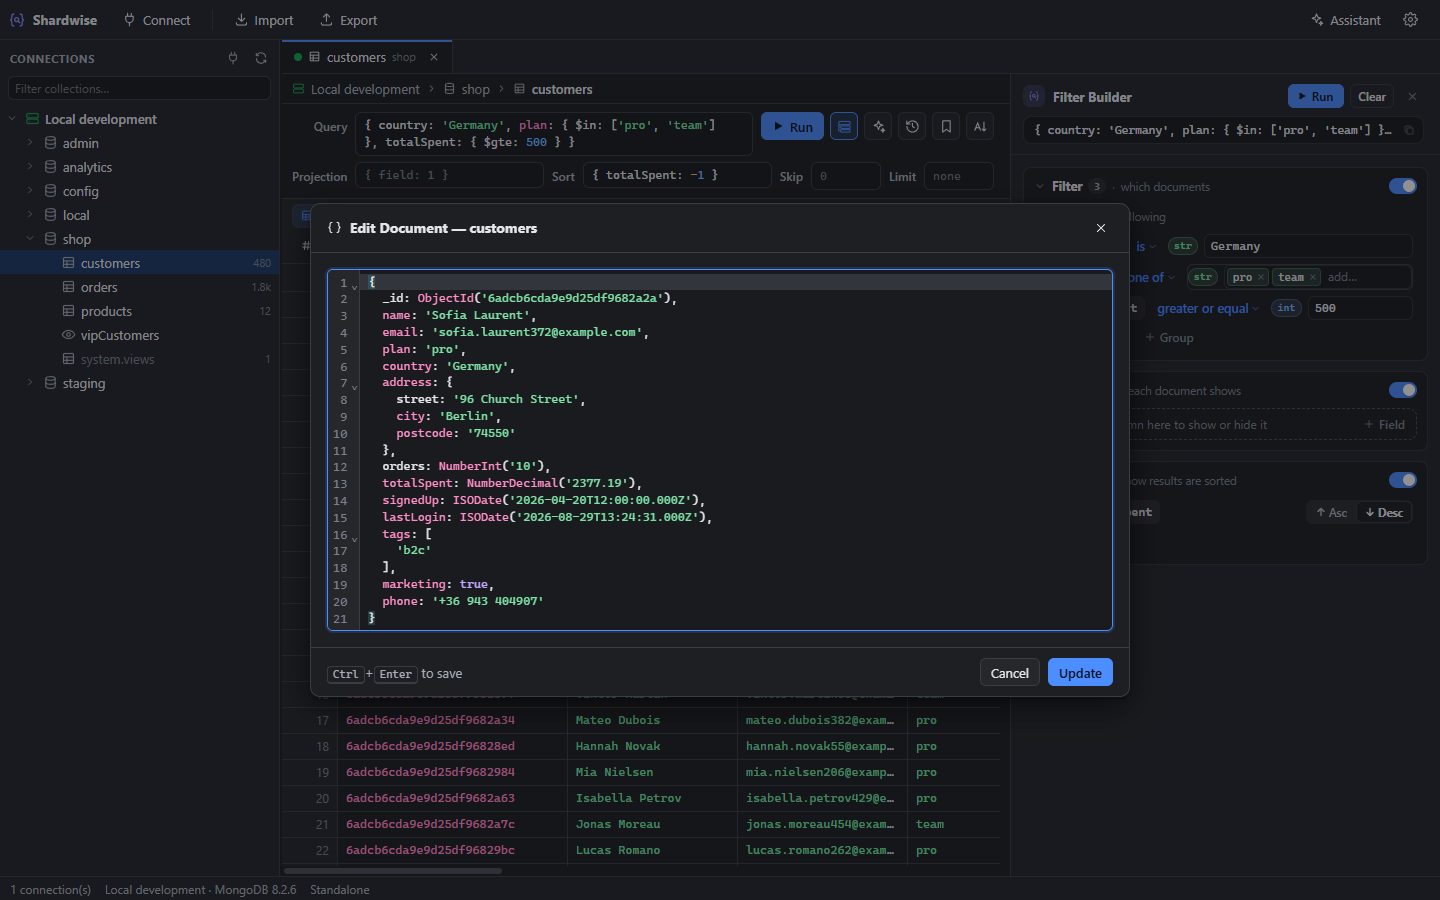
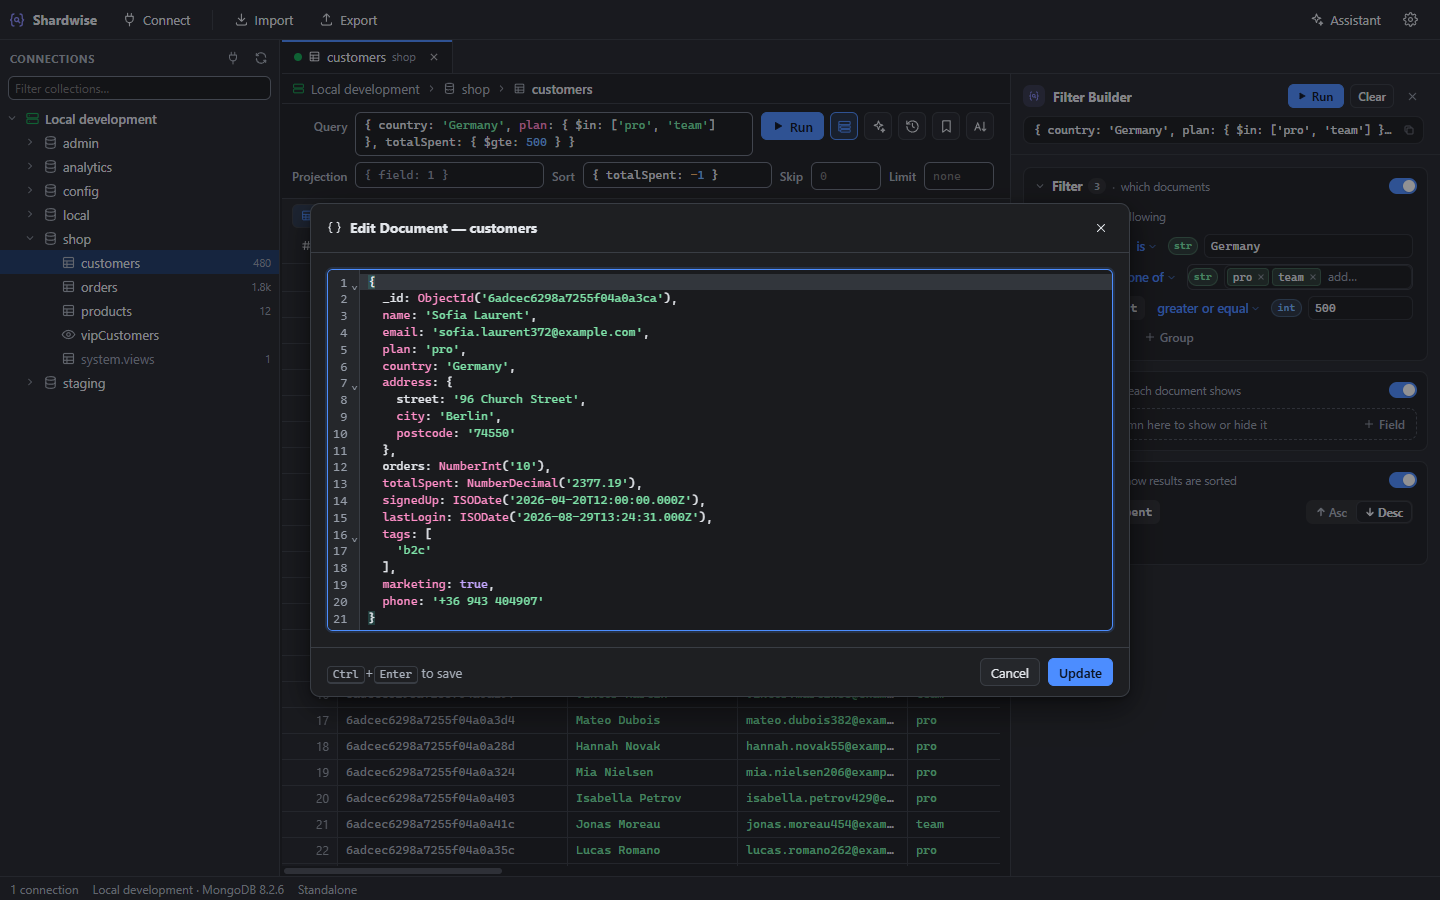
UI: readable contrast, labelled result actions, reduced motion
- Faint text, null values and input borders meet WCAG AA contrast in both
  themes; solid danger buttons use dark text in the dark theme.
- Honour the system's reduce-motion setting.
- Result toolbar: Insert / Update / Delete labelled and grouped so the
  group wraps as one; query time shown next to the document range.
- The _id column keeps its place in a quieter colour.
- Status bar: "Not connected" / "1 connection" / "N connections".
- README screenshots regenerated.

Changed region(s): [[0.25, 0.7778, 0.375, 0.9644], [0.0625, 0.9644, 0.25, 0.9956], [0.375, 0.3111, 0.4375, 0.3422]]

diff --git a/src/renderer/src/components/QueryTab.tsx b/src/renderer/src/components/QueryTab.tsx
@@ -216,54 +216,64 @@ function ResultToolbar({ tab }: { tab: Tab }): ReactElement {
       <span className="muted" style={{ marginLeft: 4 }}>
         {tab.docs ? (docs.length ? `Documents ${start.toLocaleString()} to ${end.toLocaleString()}` : 'No documents') : ''}
         {tab.count != null && ` of ${tab.count.toLocaleString()}`}
+        {tab.docs && tab.ms !== undefined && (
+          <span className="faint" title="Time the server took to return this page">
+            {' '}
+            · {tab.ms} ms
+          </span>
+        )}
       </span>
       <button className="btn ghost small" onClick={() => countDocuments(tab.id)} disabled={tab.counting || !tab.applied} title={withShortcut('Count documents matching the query', 'query.count')}>
         <Icon name="count" size={13} /> {tab.counting ? 'Counting…' : 'Count'}
       </button>
       <span className="spacer" />
-      {tab.ms !== undefined && <span className="faint">{tab.ms} ms</span>}
-      <button className="btn ghost icon small" title={withShortcut('New document', 'query.insertDocument')} disabled={readOnly} onClick={() => insertDocumentDialog(tab)}>
-        <Icon name="plus" size={14} />
-      </button>
-      <button className="btn ghost icon small" title={withShortcut('Edit the selected document as JSON', 'query.editJson')} disabled={readOnly || !docs.length} onClick={() => void editDocumentDialog(tab, tab.selection[0] ?? 0)}>
-        <Icon name="edit" size={14} />
-      </button>
-      <button className="btn ghost icon small" title={withShortcut('Show the selected document as JSON', 'query.showJson')} disabled={!docs.length} onClick={() => void viewDocumentDialog(tab, tab.selection[0] ?? 0)}>
-        <Icon name="json" size={14} />
-      </button>
-      <button className="btn ghost icon small" title={withShortcut('Update documents (edit the query and the update)…', 'query.updateDocuments')} disabled={readOnly} onClick={() => updateDocumentsDialog(tab)}>
-        <Icon name="update" size={14} />
-      </button>
-      <button className="btn ghost icon small" title="Delete documents (edit the query: selection, the tab's query or all)…" disabled={readOnly} onClick={() => deleteDocumentsDialog(tab)}>
-        <Icon name="trash" size={14} />
-      </button>
-      <button
-        className="btn ghost icon small"
-        title="More"
-        onClick={(e) =>
-          showMenu(e, [
-            { label: 'New Document…', icon: 'plus', disabled: readOnly, shortcut: shortcutLabel('query.insertDocument'), onClick: () => insertDocumentDialog(tab) },
-            { label: 'Paste as New Document(s)…', disabled: readOnly, onClick: () => pasteDocuments(tab) },
-            { label: 'Update Documents…', icon: 'update', disabled: readOnly, shortcut: shortcutLabel('query.updateDocuments'), onClick: () => updateDocumentsDialog(tab) },
-            { separator: true },
-            { label: 'Open in Pipeline Editor', icon: 'aggregate', shortcut: shortcutLabel('query.openPipeline'), onClick: () => openInPipeline(tab) },
-            { label: 'Explain with AI…', icon: 'sparkle', onClick: () => void explainQueryWithAi(tab) },
-            { label: 'Export Query Results…', icon: 'export', shortcut: shortcutLabel('query.export'), onClick: () => exportResults(tab) },
-            { separator: true },
-            { label: 'Delete All Matching…', icon: 'trash', danger: true, disabled: readOnly, onClick: () => deleteMatching(tab) }
-          ])
-        }
-      >
-        <Icon name="more" size={14} />
-      </button>
-      <button
-        className={`btn ghost icon small ${tab.readOnly ? 'active' : ''}`}
-        title={tab.isView ? 'Views are read-only' : connLocked ? 'Read-only connection (change it in the connection settings)' : withShortcut(tab.readOnly ? 'Read-only mode on' : 'Read-only mode', 'query.toggleReadOnly')}
-        disabled={tab.isView || connLocked}
-        onClick={() => patchTab(tab.id, { readOnly: !tab.readOnly })}
-      >
-        <Icon name={tab.readOnly || tab.isView ? 'lock' : 'unlock'} size={14} />
-      </button>
+      {/* One group, so it wraps to the next line as a whole and keeps its order. */}
+      <div className="rt-actions">
+        <button className="btn ghost small" title={withShortcut('New document', 'query.insertDocument')} disabled={readOnly} onClick={() => insertDocumentDialog(tab)}>
+          <Icon name="plus" size={14} /> Insert
+        </button>
+        <button className="btn ghost icon small" title={withShortcut('Edit the selected document as JSON', 'query.editJson')} disabled={readOnly || !docs.length} onClick={() => void editDocumentDialog(tab, tab.selection[0] ?? 0)}>
+          <Icon name="edit" size={14} />
+        </button>
+        <button className="btn ghost icon small" title={withShortcut('Show the selected document as JSON', 'query.showJson')} disabled={!docs.length} onClick={() => void viewDocumentDialog(tab, tab.selection[0] ?? 0)}>
+          <Icon name="json" size={14} />
+        </button>
+        <span className="rt-sep" />
+        <button className="btn ghost small" title={withShortcut('Update documents (edit the query and the update)…', 'query.updateDocuments')} disabled={readOnly} onClick={() => updateDocumentsDialog(tab)}>
+          <Icon name="update" size={14} /> Update
+        </button>
+        <button className="btn ghost small" title="Delete documents (edit the query: selection, the tab's query or all)…" disabled={readOnly} onClick={() => deleteDocumentsDialog(tab)}>
+          <Icon name="trash" size={14} /> Delete
+        </button>
+        <span className="rt-sep" />
+        <button
+          className="btn ghost icon small"
+          title="More"
+          onClick={(e) =>
+            showMenu(e, [
+              { label: 'New Document…', icon: 'plus', disabled: readOnly, shortcut: shortcutLabel('query.insertDocument'), onClick: () => insertDocumentDialog(tab) },
+              { label: 'Paste as New Document(s)…', disabled: readOnly, onClick: () => pasteDocuments(tab) },
+              { label: 'Update Documents…', icon: 'update', disabled: readOnly, shortcut: shortcutLabel('query.updateDocuments'), onClick: () => updateDocumentsDialog(tab) },
+              { separator: true },
+              { label: 'Open in Pipeline Editor', icon: 'aggregate', shortcut: shortcutLabel('query.openPipeline'), onClick: () => openInPipeline(tab) },
+              { label: 'Explain with AI…', icon: 'sparkle', onClick: () => void explainQueryWithAi(tab) },
+              { label: 'Export Query Results…', icon: 'export', shortcut: shortcutLabel('query.export'), onClick: () => exportResults(tab) },
+              { separator: true },
+              { label: 'Delete All Matching…', icon: 'trash', danger: true, disabled: readOnly, onClick: () => deleteMatching(tab) }
+            ])
+          }
+        >
+          <Icon name="more" size={14} />
+        </button>
+        <button
+          className={`btn ghost icon small ${tab.readOnly ? 'active' : ''}`}
+          title={tab.isView ? 'Views are read-only' : connLocked ? 'Read-only connection (change it in the connection settings)' : withShortcut(tab.readOnly ? 'Read-only mode on' : 'Read-only mode', 'query.toggleReadOnly')}
+          disabled={tab.isView || connLocked}
+          onClick={() => patchTab(tab.id, { readOnly: !tab.readOnly })}
+        >
+          <Icon name={tab.readOnly || tab.isView ? 'lock' : 'unlock'} size={14} />
+        </button>
+      </div>
     </div>
   )
 }

diff --git a/src/renderer/src/styles.css b/src/renderer/src/styles.css
@@ -16,13 +16,15 @@
   --border-strong: #c3c9d3;
   --text: #1d2129;
   --text-2: #5a6270;
-  --text-3: #8a92a0;
+  --text-3: #646b78;
   --accent: #1f6feb;
   --accent-2: #155bd0;
   --accent-text: #ffffff;
   --accent-soft: rgba(31, 111, 235, 0.12);
   --danger: #d1242f;
   --danger-soft: rgba(209, 36, 47, 0.1);
+  --danger-text: #ffffff;
+  --border-input: #868f9c;
   --ok: #1a7f37;
   --warn: #9a6700;
   --warn-soft: rgba(212, 167, 44, 0.16);
@@ -34,7 +36,7 @@
   --t-bool: #8a3ffc;
   --t-date: #a3510a;
   --t-oid: #b3266b;
-  --t-null: #8a92a0;
+  --t-null: #646b78;
   --t-object: #5a6270;
   --t-regex: #9a6700;
   --t-binary: #6b5b95;
@@ -53,13 +55,15 @@
     --border-strong: #4a4f58;
     --text: #e3e6eb;
     --text-2: #a7aeb9;
-    --text-3: #7a818d;
+    --text-3: #959ca8;
     --accent: #4c8dff;
     --accent-2: #6aa0ff;
     --accent-text: #0b1220;
     --accent-soft: rgba(76, 141, 255, 0.16);
     --danger: #ff6b6b;
     --danger-soft: rgba(255, 107, 107, 0.12);
+    --danger-text: #1a0b0b;
+    --border-input: #6e7581;
     --ok: #4cc38a;
     --warn: #e3b341;
     --warn-soft: rgba(227, 179, 65, 0.14);
@@ -71,7 +75,7 @@
     --t-bool: #c4a7ff;
     --t-date: #ffb86b;
     --t-oid: #ff8fc8;
-    --t-null: #7a818d;
+    --t-null: #959ca8;
     --t-object: #a7aeb9;
     --t-regex: #e3b341;
     --t-binary: #b9a7e8;
@@ -90,13 +94,15 @@
   --border-strong: #4a4f58;
   --text: #e3e6eb;
   --text-2: #a7aeb9;
-  --text-3: #7a818d;
+  --text-3: #959ca8;
   --accent: #4c8dff;
   --accent-2: #6aa0ff;
   --accent-text: #0b1220;
   --accent-soft: rgba(76, 141, 255, 0.16);
   --danger: #ff6b6b;
   --danger-soft: rgba(255, 107, 107, 0.12);
+  --danger-text: #1a0b0b;
+  --border-input: #6e7581;
   --ok: #4cc38a;
   --warn: #e3b341;
   --warn-soft: rgba(227, 179, 65, 0.14);
@@ -108,7 +114,7 @@
   --t-bool: #c4a7ff;
   --t-date: #ffb86b;
   --t-oid: #ff8fc8;
-  --t-null: #7a818d;
+  --t-null: #959ca8;
   --t-object: #a7aeb9;
   --t-regex: #e3b341;
   --t-binary: #b9a7e8;
@@ -230,7 +236,7 @@ button {
 .btn.danger.solid {
   background: var(--danger);
   border-color: var(--danger);
-  color: #fff;
+  color: var(--danger-text);
 }
 .btn.ghost {
   background: transparent;
@@ -263,7 +269,7 @@ button {
 textarea.input {
   height: 28px;
   padding: 0 8px;
-  border: 1px solid var(--border);
+  border: 1px solid var(--border-input);
   background: var(--bg-input);
   border-radius: var(--radius);
   outline: none;
@@ -761,6 +767,18 @@ textarea.input:focus {
   background: var(--bg-2);
   flex-wrap: wrap;
 }
+.result-toolbar .rt-actions {
+  display: flex;
+  align-items: center;
+  gap: 2px;
+  margin-left: auto;
+}
+.result-toolbar .rt-sep {
+  width: 1px;
+  height: 16px;
+  margin: 0 4px;
+  background: var(--border);
+}
 .result-toolbar .pager {
   display: flex;
   align-items: center;
@@ -906,7 +924,10 @@ textarea.input:focus {
 .grid td.missing {
   color: var(--text-3);
 }
-.grid .col-resize {
+/* _id stays in every table but in a quieter colour, so the data columns lead. */
+.grid td.id-col > span {
+  color: var(--text-2);
+}.grid .col-resize {
   position: absolute;
   right: -3px;
   top: 0;
@@ -1391,7 +1412,7 @@ textarea.input:focus {
 /* ---------- CodeMirror ---------- */
 
 .cm-wrap {
-  border: 1px solid var(--border);
+  border: 1px solid var(--border-input);
   border-radius: var(--radius);
   background: var(--bg-input);
   overflow: hidden;
@@ -2044,4 +2065,16 @@ body
   white-space: nowrap;
   overflow: hidden;
   text-overflow: ellipsis;
+}
+
+/* System setting "reduce motion": no animations or transitions anywhere. */
+@media (prefers-reduced-motion: reduce) {
+  *,
+  *::before,
+  *::after {
+    animation-duration: 0.01ms !important;
+    animation-iteration-count: 1 !important;
+    transition-duration: 0.01ms !important;
+    scroll-behavior: auto !important;
+  }
 }

diff --git a/src/renderer/src/components/views/TableView.tsx b/src/renderer/src/components/views/TableView.tsx
@@ -375,7 +375,7 @@ export const TableView = memo(function TableView({ tab }: { tab: QueryTab }): Re
                   return (
                     <td
                       key={c}
-                      className={`${focused ? 'cell-focus' : ''} ${missing ? 'missing' : ''}`}
+                      className={`${focused ? 'cell-focus' : ''} ${missing ? 'missing' : ''} ${fullPath(c) === '_id' ? 'id-col' : ''}`}
                       onMouseDown={(e) => {
                         if (e.button !== 0) return
                         setFocus({ row, col: ci })

diff --git a/src/shared/valueColors.ts b/src/shared/valueColors.ts
@@ -29,7 +29,7 @@ export const DEFAULT_VALUE_COLORS: Record<ThemeName, Record<ValueColorKey, strin
     bool: '#8a3ffc',
     date: '#a3510a',
     oid: '#b3266b',
-    null: '#8a92a0',
+    null: '#646b78',
     object: '#5a6270',
     regex: '#9a6700',
     binary: '#6b5b95'
@@ -40,7 +40,7 @@ export const DEFAULT_VALUE_COLORS: Record<ThemeName, Record<ValueColorKey, strin
     bool: '#c4a7ff',
     date: '#ffb86b',
     oid: '#ff8fc8',
-    null: '#7a818d',
+    null: '#959ca8',
     object: '#a7aeb9',
     regex: '#e3b341',
     binary: '#b9a7e8'

diff --git a/src/renderer/src/App.tsx b/src/renderer/src/App.tsx
@@ -399,9 +399,10 @@ function StatusBar(): ReactElement {
   const live = useStore((s) => s.live)
   const tab = tabs.find((t) => t.id === activeId)
   const conn = tab ? live[tab.connId] : undefined
+  const open = Object.keys(live).length
   return (
     <div className="statusbar">
-      <span>{Object.keys(live).length} connection(s)</span>
+      <span>{open === 0 ? 'Not connected' : open === 1 ? '1 connection' : `${open} connections`}</span>
       {conn && (
         <>
           <span>
